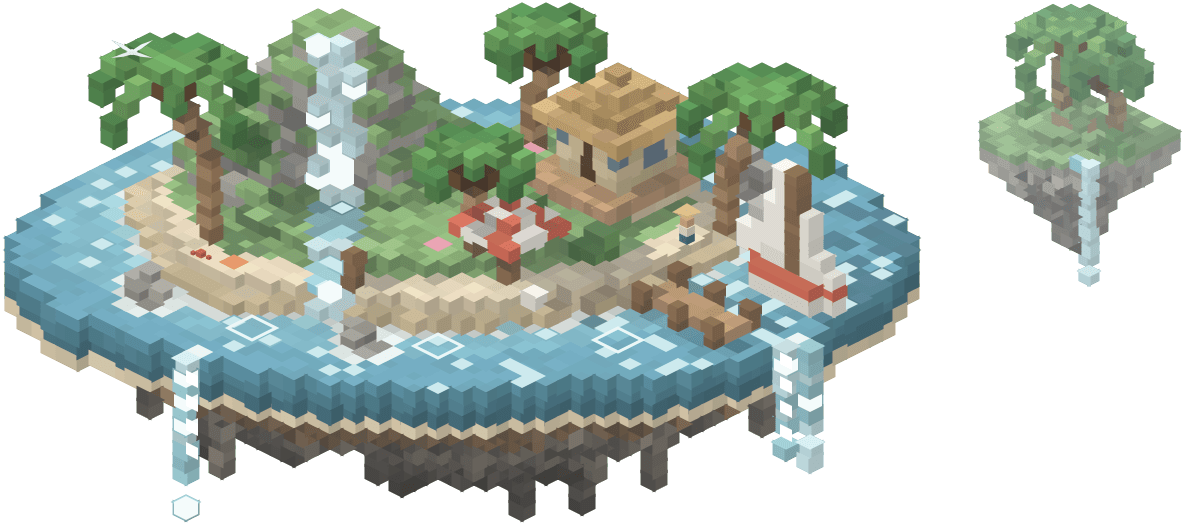
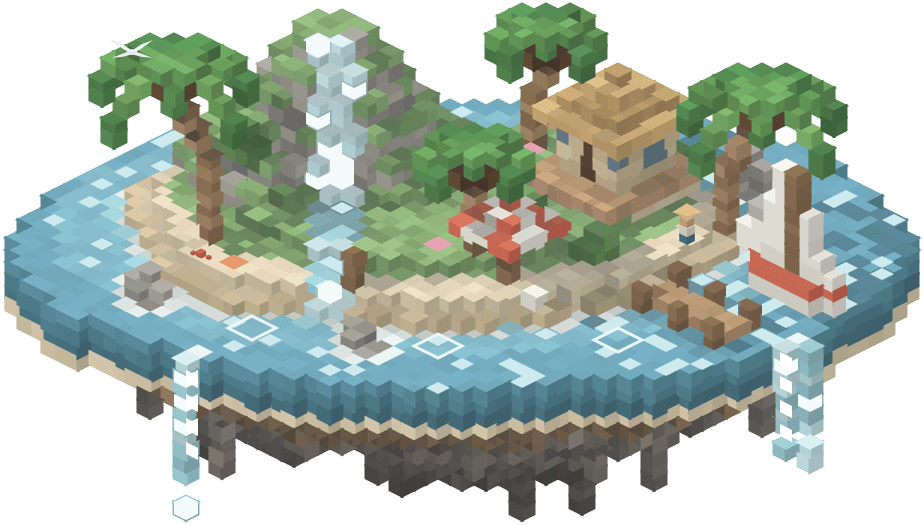
Draw Beach's neighbour island as its own picture
The settings thumbnail is the main island's picture; Beach's main layer also held
a small second island, which made its thumbnail smaller than the others.

diff --git a/apps/mobile/src/ui/header-scene-sprites/beach.ts b/apps/mobile/src/ui/header-scene-sprites/beach.ts
@@ -7,15 +7,16 @@ import s2 from '../../../assets/header-scenes/beach-far-cloud-2.png';
 import s3 from '../../../assets/header-scenes/beach-clouds-cloud-1.png';
 import s4 from '../../../assets/header-scenes/beach-clouds-cloud-2.png';
 import s5 from '../../../assets/header-scenes/beach-clouds-cloud-3.png';
-import s6 from '../../../assets/header-scenes/beach-main-shadow.png';
-import s7 from '../../../assets/header-scenes/beach-main-body.png';
-import s8 from '../../../assets/header-scenes/beach-front-body.png';
-import s9 from '../../../assets/header-scenes/beach-glow-body.png';
+import s6 from '../../../assets/header-scenes/beach-main-side.png';
+import s7 from '../../../assets/header-scenes/beach-main-shadow.png';
+import s8 from '../../../assets/header-scenes/beach-main-body.png';
+import s9 from '../../../assets/header-scenes/beach-front-body.png';
+import s10 from '../../../assets/header-scenes/beach-glow-body.png';
 
 const scene: HeaderSceneSprites = {
   id: 'beach',
   description: "A floating beach island with a waterfall hill, palms, a thatched hut, a jetty, a sailboat, a lantern, a villager, a crab and a gull.",
[2 lines of base64/hex data omitted]
   sprites: [
     { layer: 'far', kind: 'body', seconds: 9, x: 86, y: 33.67, w: 580, h: 165, image: s0 },
     { layer: 'far', kind: 'cloud', seconds: 260, x: 380, y: 23.67, w: 78, h: 26, image: s1 },
@@ -23,10 +24,11 @@ const scene: HeaderSceneSprites = {
     { layer: 'clouds', kind: 'cloud', seconds: 140, x: 28, y: 7, w: 130, h: 39, image: s3 },
     { layer: 'clouds', kind: 'cloud', seconds: 180, x: 516, y: 38, w: 94, h: 36, image: s4 },
     { layer: 'clouds', kind: 'cloud', seconds: 160, x: 789, y: 4, w: 142, h: 37.67, image: s5 },
-    { layer: 'main', kind: 'shadow', seconds: 7, x: 171, y: 213, w: 258, h: 28, image: s6 },
-    { layer: 'main', kind: 'body', seconds: 7, x: 146, y: 38.67, w: 395, h: 175, image: s7 },
-    { layer: 'front', kind: 'body', seconds: 11, x: -16, y: 159.67, w: 112, h: 99, image: s8 },
-    { layer: 'glow', kind: 'body', seconds: 7, x: 229.33, y: 79.67, w: 139.33, h: 73, image: s9 },
+    { layer: 'main', kind: 'body', seconds: 9, x: 471, y: 39, w: 70, h: 96, image: s6 },
+    { layer: 'main', kind: 'shadow', seconds: 7, x: 171, y: 213, w: 258, h: 28, image: s7 },
+    { layer: 'main', kind: 'body', seconds: 7, x: 146, y: 38.67, w: 308, h: 175, image: s8 },
+    { layer: 'front', kind: 'body', seconds: 11, x: -16, y: 159.67, w: 112, h: 99, image: s9 },
+    { layer: 'glow', kind: 'body', seconds: 7, x: 229.33, y: 79.67, w: 139.33, h: 73, image: s10 },
   ],
 };
 export default scene;

diff --git a/tools/header-scenes/src/sprites.test.ts b/tools/header-scenes/src/sprites.test.ts
@@ -18,7 +18,15 @@ it.each(scenes.map((scene) => [scene.id, scene] as const))(
   (_, scene) => {
     const plans = spritePlans(scene);
     for (const layer of ['far', 'main', 'front', 'glow'] as const)
-      expect(plans.filter((plan) => plan.layer === layer && plan.kind === 'body')).toHaveLength(1);
+      expect(
+        plans.filter(
+          (plan) => plan.layer === layer && plan.kind === 'body' && plan.file.endsWith('-body.png'),
+        ),
+      ).toHaveLength(1);
+    // Only Beach has a second island in its main layer; it is a picture of its own.
+    expect(plans.filter((plan) => plan.file.endsWith('-main-side.png'))).toHaveLength(
+      scene.id === 'beach' ? 1 : 0,
+    );
     expect(plans.filter((plan) => plan.kind === 'shadow')).toHaveLength(1);
     const clouds = plans.filter((plan) => plan.kind === 'cloud');
     expect(clouds.length).toBeGreaterThanOrEqual(5);
@@ -26,7 +34,7 @@ it.each(scenes.map((scene) => [scene.id, scene] as const))(
     expect(new Set(plans.map((plan) => plan.file)).size).toBe(plans.length);
     // The shadow lies under the island, and a layer's clouds pass in front of its body.
     const main = plans.filter((plan) => plan.layer === 'main').map((plan) => plan.kind);
-    expect(main.indexOf('shadow')).toBeLessThan(main.indexOf('body'));
+    expect(main.indexOf('shadow')).toBeLessThan(main.lastIndexOf('body'));
   },
 );
 

diff --git a/apps/mobile/src/ui/header-scene-motion.test.ts b/apps/mobile/src/ui/header-scene-motion.test.ts
@@ -31,7 +31,7 @@ it.each(scenes.map((scene) => [scene.id, scene] as const))(
     expect(scene.sprites.filter((sprite) => sprite.kind === 'shadow')).toHaveLength(1);
     for (const sprite of scene.sprites)
       if (sprite.kind !== 'cloud') expect([7, 9, 11]).toContain(sprite.seconds);
-    const main = scene.sprites.find((s) => s.layer === 'main' && s.kind === 'body')!;
+    const main = scene.sprites.filter((s) => s.layer === 'main' && s.kind === 'body').at(-1)!;
     expect(main.x).toBeLessThan(SCENE_CENTRE);
     expect(main.x + main.w).toBeGreaterThan(SCENE_CENTRE);
   },
@@ -43,7 +43,7 @@ it.each(scenes.map((scene) => [scene.id, scene] as const))(
     // No moving piece is cut by its own picture, and the sky behind never moves, so an island that
     // stays inside the 208 dp picture cannot uncover a blank strip.
     const travel = FLOAT_RISE * SCENE_UNIT + Math.abs(TILT_DEPTH.main) * 0.6;
-    const main = scene.sprites.find((s) => s.layer === 'main' && s.kind === 'body')!;
+    const main = scene.sprites.filter((s) => s.layer === 'main' && s.kind === 'body').at(-1)!;
     expect(main.y * SCENE_UNIT - travel).toBeGreaterThanOrEqual(0);
     expect((main.y + main.h) * SCENE_UNIT + travel).toBeLessThanOrEqual(PICTURE_HEIGHT);
   },

diff --git a/tools/header-scenes/src/sprites.ts b/tools/header-scenes/src/sprites.ts
@@ -93,8 +93,13 @@ export function spritePlans(scene: HeaderSceneArt): SpritePlan[] {
         seconds,
         svg: frame(defs, parts.map((part) => vectorSvg(lit(part))).join('')),
       });
+    // The main island is the last thing drawn in its layer. Anything else there (Beach's small
+    // neighbour) is its own picture behind the shadow, so the island alone can be the thumbnail.
+    const island = layer === 'main' ? body.slice(-1) : body;
+    const side = layer === 'main' ? body.slice(0, -1) : [];
+    if (side.length) add('body', 'side', FLOAT_SECONDS.far, side);
     if (shadows.length) add('shadow', 'shadow', FLOAT_SECONDS[layer], shadows);
-    if (body.length) add('body', 'body', FLOAT_SECONDS[layer], body);
+    if (island.length) add('body', 'body', FLOAT_SECONDS[layer], island);
     clouds.forEach((cloud, index) => {
       const seconds = (cloud.classes ?? []).reduce(
         (found, name) => CLOUD_SECONDS[name] ?? found,
